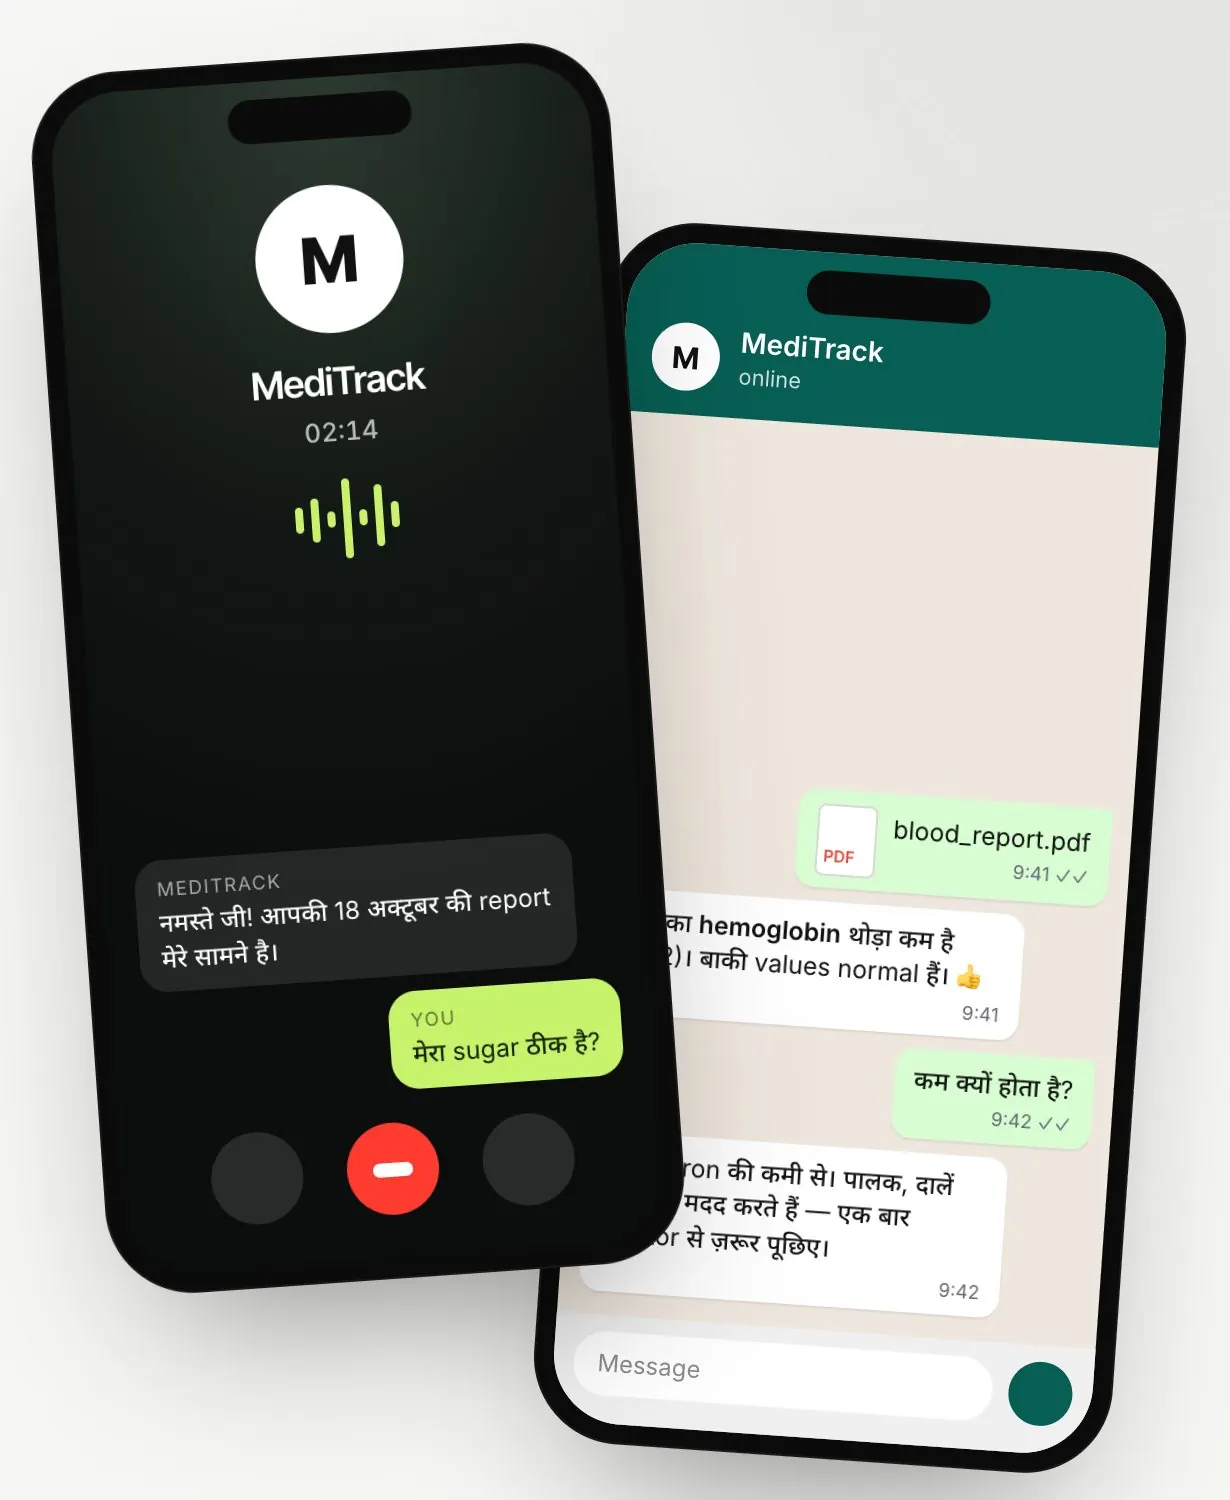
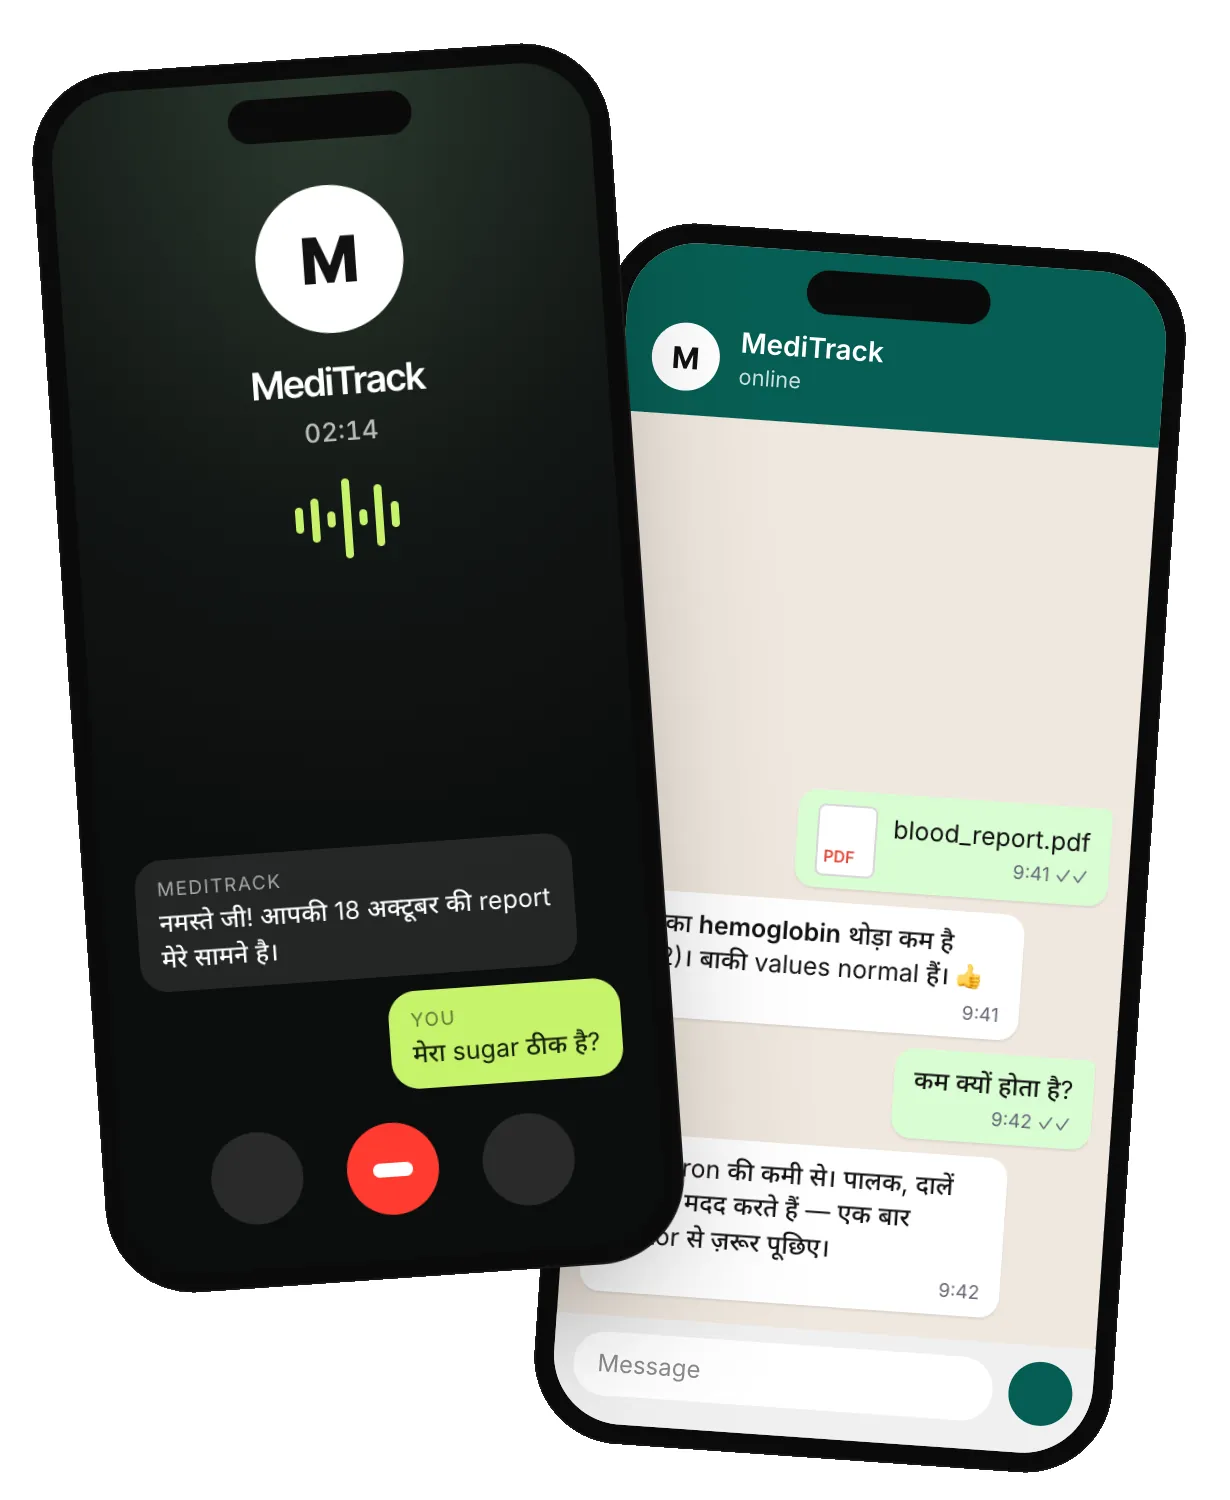
Update photos, dynamic skip link

Changed region(s): [[0.0, 0.0, 1.0, 1.0], [0.4943, 0.092, 0.5561, 0.184]]

diff --git a/index.html b/index.html
@@ -173,7 +173,7 @@ section{position:relative;pointer-events:none}
 /* product screenshots, shown whole */
 .shot{margin:0;border-radius:14px;overflow:hidden;border:1px solid var(--line);background:#f3f2ef;display:flex;justify-content:center}
 .shot img{display:block;max-width:100%;height:auto}
-.shot.tall{background:#f0f0ee}
+.shot.tall{background:#fff}
 .shot.tall img{max-height:470px;width:auto}
 
 /* about */
@@ -207,13 +207,6 @@ section{position:relative;pointer-events:none}
 .hero-meta{font:500 11px/1.9 var(--mono);letter-spacing:.14em;text-transform:uppercase;color:var(--mute)}
 .hero-meta b{color:var(--ink);font-weight:500}
 .hero-lede{font-size:clamp(20px,2vw,27px);line-height:1.3;letter-spacing:-.02em;max-width:22ch}
-.proof{display:flex;flex-wrap:wrap;gap:8px;pointer-events:auto}
-.proof a{display:flex;flex-direction:column;gap:6px;padding:11px 14px;border:1px solid var(--line);border-radius:12px;text-decoration:none;
-  background:rgba(12,12,15,.62);-webkit-backdrop-filter:blur(12px);backdrop-filter:blur(12px);transition:border-color .3s,transform .3s var(--ease)}
-.proof a:hover{border-color:rgba(255,255,255,.3);transform:translateY(-2px)}
-.proof a:focus-visible{outline:2px solid var(--ink);outline-offset:2px}
-.proof b{font:600 20px/1 var(--sans);letter-spacing:-.03em}
-.proof span{font:500 10px/1 var(--mono);letter-spacing:.1em;text-transform:uppercase;color:var(--mute)}
 .wordmark{position:absolute;z-index:1;left:3vw;bottom:112px;margin:0;font:700 15vw/.82 var(--sans);letter-spacing:-.065em;white-space:nowrap;
   background:linear-gradient(180deg,#f3f0e9 30%,#6f6b66);-webkit-background-clip:text;background-clip:text;color:transparent}
 .cta{position:absolute;z-index:3;right:var(--gut);top:clamp(84px,14vh,140px);text-align:right;font:500 11px/1.9 var(--mono);letter-spacing:.14em;text-transform:uppercase;color:var(--mute)}
@@ -254,10 +247,6 @@ section{position:relative;pointer-events:none}
   .timer small{font-size:9px}
   .wordmark{left:16px;bottom:96px}
   .hero .col{margin-left:16px;right:16px;gap:var(--s3)}
-  .proof{gap:6px}
-  .proof a{padding:8px 10px;gap:5px}
-  .proof b{font-size:16px}
-  .proof span{font-size:8.5px;letter-spacing:.06em}
   .head{flex-direction:column;gap:4px}
   .spec{grid-template-columns:1fr}
   .spec dt{padding-bottom:0}
@@ -270,7 +259,6 @@ section{position:relative;pointer-events:none}
   .skip{margin-right:12px;padding:9px 11px;font-size:10px;letter-spacing:.08em;white-space:nowrap}
   .sm-hide{display:none}
   .brand{white-space:nowrap}
-  .proof{flex-wrap:nowrap}
   .outro{padding-bottom:130px}
   main{padding-bottom:90px}
 }
@@ -295,7 +283,7 @@ section{position:relative;pointer-events:none}
     <span>Kabir Gupta</span>
   </a>
   <div class="where" id="where">Scrambled</div>
-  <a class="skip" href="#projects" data-go="2"><span class="sm-hide">Skip to </span>projects ↓</a>
+  <a class="skip" href="#projects" data-go="2"><span class="sm-hide" id="skipPre">Skip to </span><span id="skipTo">projects</span> <span id="skipArrow">↓</span></a>
   <!-- unfolded cube: U on top, L F R B across, D below -->
   <nav class="net" aria-label="Sections">
     <button data-go="1" style="grid-area:2/2;--c:var(--G)"><span>01 · About me</span></button>
@@ -323,11 +311,6 @@ section{position:relative;pointer-events:none}
   <div class="col">
     <div class="hero-meta"><b>Builder</b> · Woodstock School<br>Mussoorie, India · Class of 2027</div>
     <p class="hero-lede" data-draft>I build tools that explain things to people who usually get left out of the explanation.</p>
-    <nav class="proof" aria-label="Highlights">
-      <a href="https://www.meditrack.in/" target="_blank" rel="noopener"><b>1,500+</b><span>MediTrack ↗</span></a>
-      <a href="https://www.oxfordjss.org/oct-2026-vol-12-issue-1/perceptions-of-ai-assisted-voice-explanations-for-medical-diagnostic-reports-in-multilingual-india" target="_blank" rel="noopener"><b>Published</b><span>OJSS paper ↗</span></a>
-      <a href="https://agents.shunyalabs.ai" target="_blank" rel="noopener"><b>+9%</b><span>ShunyaLabs ↗</span></a>
-    </nav>
   </div>
   <div class="cta"><b>Scroll to solve</b>4 sections · 19 moves</div>
   <h1 class="wordmark split" id="wordmark">Kabir Gupta</h1>
@@ -340,13 +323,13 @@ section{position:relative;pointer-events:none}
 
     <div class="glass rv">
       <div class="about">
-        <figure class="ph"><img width="900" height="1200" src="img/pilot-patients.webp" alt="Kabir walking two patients through their reports on his phone" style="object-position:62% 40%" loading="lazy"></figure>
+        <figure class="ph"><img width="278" height="350" src="img/portrait.webp" alt="Portrait of Kabir Gupta" loading="lazy"></figure>
         <p class="bio" data-draft>Senior at Woodstock School in the Himalayas. I build software that explains things in the languages people actually speak.</p>
       </div>
       <dl class="spec">
         <dt>From</dt><dd>San Francisco · Gurgaon</dd>
-        <dt>Speaks</dt><dd>English, Hindi, Spanish</dd>
-        <dt>Interests</dt><dd>12-second 3x3 PB · basketball (6′4″) · drums</dd>
+        <dt>Speaks</dt><dd>English, Hindi, Spanish, Indonesian</dd>
+        <dt>Interests</dt><dd>Speedcubing · basketball (6′4″) · drums</dd>
       </dl>
     </div>
   </div>
@@ -379,7 +362,7 @@ section{position:relative;pointer-events:none}
         <dd><b>CREST Gold.</b> <b>Blue Ocean Top 500</b> of 23,000+. Recognised by Uttar Pradesh’s Directorate of Training.</dd>
       </dl>
       <div class="gallery">
-        <figure class="t"><img width="900" height="1200" src="img/with-cardiologist.webp" alt="Kabir going through a report with a cardiologist" style="object-position:50% 40%" loading="lazy"><figcaption>In consultations</figcaption></figure>
+        <figure class="t"><img width="900" height="1200" src="img/pilot-patients.webp" alt="Kabir walking two patients through their reports on his phone" style="object-position:62% 40%" loading="lazy"><figcaption>Walking two patients through their reports</figcaption></figure>
         <figure class="t"><img width="900" height="1200" src="img/landour-hospital.webp" alt="Kabir outside Landour Community Hospital" style="object-position:35% 60%" loading="lazy"><figcaption>Landour Community Hospital, Mussoorie</figcaption></figure>
       </div>
       <div class="links"><a class="btn" href="https://wa.me/919717628400?text=Hi" target="_blank" rel="noopener">Try it on WhatsApp ↗</a><a class="btn" href="https://www.meditrack.in/" target="_blank" rel="noopener">meditrack.in ↗</a></div>
@@ -889,6 +872,8 @@ if (renderer) {
   const names = ['Scrambled', '01 · About me', '02 · Projects', '03 · Research', '04 · Outside of building', 'Solved'];
   const accents = ['#f4f1ea', '#19C37D', '#FF3B30', '#F4F1EA', '#4A80FF', '#f4f1ea'];
   const netBtns = [...document.querySelectorAll('.net button')];
+  const skipNames = ['', 'about', 'projects', 'research', 'outside'];
+  const skipPre = document.getElementById('skipPre'), skipTo = document.getElementById('skipTo'), skipArrow = document.getElementById('skipArrow');
   let lastStop = -1, lastTxt = '', lastK = -2;
 
   function hud(P, intro, stopIdx, sv) {
@@ -911,6 +896,16 @@ if (renderer) {
       document.documentElement.style.setProperty('--acc', accents[stopIdx]);
       document.body.dataset.stop = stopIdx;
       hint.style.opacity = (stopIdx === 0 || dragged) ? 0 : 1;
+      // the skip link always points at the section after the one on screen
+      const next = Math.max(2, stopIdx + 1);
+      const skip = document.querySelector('.skip');
+      if (next <= NS) {
+        skip.dataset.go = next; skip.href = '#' + secs[next].id;
+        skipPre.textContent = 'Skip to '; skipTo.textContent = skipNames[next]; skipArrow.textContent = '↓';
+      } else {
+        skip.dataset.go = 0; skip.href = '#top';
+        skipPre.textContent = 'Back to '; skipTo.textContent = 'top'; skipArrow.textContent = '↑';
+      }
       netBtns.forEach(b => {
         const g = +b.dataset.go;
         b.classList.toggle('on', g === stopIdx);
